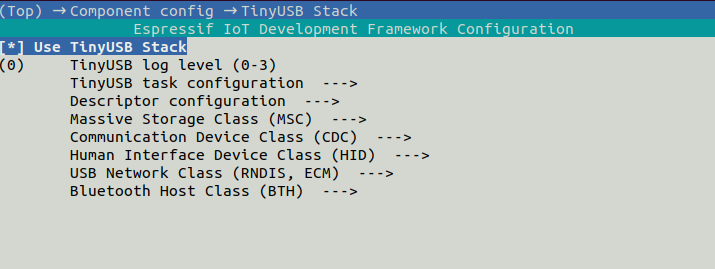
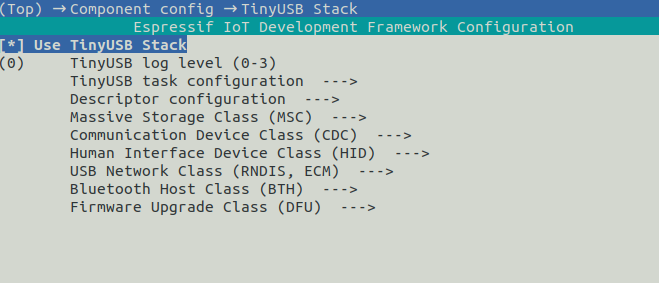
docs(USB): add USB DFU and ECM usage

diff --git a/examples/usb/device/usb_dongle/README_EN.md b/examples/usb/device/usb_dongle/README_EN.md
@@ -6,9 +6,10 @@ This example shows how to set up ESP32-S chip to work as a USB Dongle Device.
 
 Supports the following functions:
 
-* Support Host to surf the Internet wirelessly via USB-RNDIS.
+* Support Host to surf the Internet wirelessly via USB-ECM/RNDIS.
 * Add BLE devices via USB-BTH, support scan, broadcast, connect and other functions.
 * Support Host to communicate and control ESP32-S series devices via USB-CDC or UART.
+* Support Host to upgrade device using USB-DFU.
 * Support system commands and Wi-Fi control commands. It uses FreeRTOS-Plus-CLI interfaces, so it is easy to add more commands.
 * Support hot swap.
 
@@ -93,19 +94,20 @@ Refer to `soc/usb_pins.h` to find the real GPIO number of **USBPHY_DP_NUM** and 
 
 Currently USB-Dongle supports the following four combination options.
 
-| RNDIS | BTH  | CDC  | UART |
-| :---: | :--: | :--: | :--: |
-|   √   |      |      |  √   |
-|   √   |      |  √   |      |
-|   √   |  √   |      |  √   |
-|       |  √   |      |  √   |
+| ECM/RNDIS | BTH  | CDC  | UART | DFU  |
+| :-------: | :--: | :--: | :--: | :--: |
+|     √     |      |      |  √   |  √   |
+|     √     |      |  √   |      |  √   |
+|     √     |  √   |      |  √   |  √   |
+|           |  √   |      |  √   |  √   |
 
 * UART is disabled by default when CDC is enabled.
-* The project enables RNDIS and CDC by default.
+* UART can be used for command communication, and you can also use Bluetooth for communication.
+* The project enables ECM and CDC by default.
 * You can select USB Device through `component config -> TinyUSB Stack`.
-* When RNDIS and BTH are enabled at the same time, it is recommended to disable CDC, use UART to send commands, and configure the serial port through `Example Configuration`.
+* When ECM/RNDIS and BTH are enabled at the same time, it is recommended to disable CDC, use UART to send commands, and configure the serial port through `Example Configuration`.
 
->Due to current hardware limitations, the number of EndPoints cannot exceed a certain number, so RNDIS, BTH, and CDC should not be all enabled at the same time.
+>Due to current hardware limitations, the number of EndPoints cannot exceed a certain number, so ECM/RNDIS, BTH, and CDC should not be all enabled at the same time.
 
 ### 2.5 build & flash & monitor
 
@@ -161,6 +163,33 @@ You can use the following command to build and flash the firmware.
     * [Connect to target AP by sta command](./Commands_EN.md#3sta)
     * [Connect to target AP by startsmart command (SmartConfig)](./Commands_EN.md#5smartconfig)
 
+### 2.7 Common network device Problems
+
+#### Windows
+
+Windows platform only supports RNDIS, USB ECM is not recognized.
+
+#### MAC
+
+MAC platform only supports ECM, USB RNDIS is not recognized.
+
+#### Linux
+
+Linux platform support both ECM and RNDIS. Howerver, if  RNDIS is used, network devices in Linux do not proactively obtain IP addresses when switching between different routers.
+
+If embedded Linux is used and network devices are not displayed, the preceding two modules may not be enabled in the kernel. The following two configuration items are enabled in the Linux kernel to support CDC-ECM and RNDIS respectively.
+
+```
+Device Drivers   --->
+	Network Device Support --->
+		Usb Network Adapters --->
+			Multi-purpose USB Networking Framework --->
+				CDC Ethernet Support
+				Host For RDNIS and ActiveSync Devices
+```
+
+If you are sure that the network device cannot be seen after the preceding modules are enabled, run the `dmesg` command to view the kernel information to check whether ESP32-S USB network devices are detected in the Linux kernel and whether error messages are displayed.
+
 ## 3. Connect to a Wi-Fi AP
 
 The example provides two methods to connect ESP device to a Wi-Fi AP.
@@ -177,30 +206,6 @@ sta -s <ssid> -p [<password>]
 
 * `password` is optional
 
-* When the USB Dongle network is switched, the network device needs to be reloaded
-
-    >find USB Ethernet name
-    >
-    >```
-    >>ifconfig
-    >>
-    >```
-    >
-    >unload USB Ethernet 
-    >
-    >```
-    >>ifconfig <USB Ethernet name> down
-    >>
-    >```
-    >
-    >reload USB Ethernet 
-    >
-    >```
-    >>ifconfig <USB Ethernet name> up
-    >>
-    >```
-    >
-    >* `USB Ethernet name` is the name of the queried network device
 
 ### [Method 2. Connect to target AP by startsmart command (SmartConfig)](./Commands_EN.md#5smartconfig)
 
@@ -220,35 +225,58 @@ Download ESPTOUCH APP from app store: [Android source code](https://github.com/E
 smartconfig 1
 ```
 
-**Notes**
-
-* When the USB Dongle network is switched, the network device needs to be reloaded
-
-    >find USB Ethernet name
-    >
-    >```
-    >>ifconfig
-    >>
-    >```
-    >
-    >unload USB Ethernet 
-    >
-    >```
-    >>ifconfig <USB Ethernet name> down
-    >>
-    >```
-    >
-    >reload USB Ethernet 
-    >
-    >```
-    >>ifconfig <USB Ethernet name> up
-    >>
-    >```
-    >
-    >* `USB Ethernet name` is the name of the queried network device
-
 ## 4.Command introduction
 
 [Commands](./Commands_EN.md)
 
 Note: Wi-Fi commands can only be used when USB Network Class is enabled
+
+## 5. How to use USB-DFU to upgrade device
+
+Before using DFU to upgrade ES[32-S device, ensure that the DFU feature has been enabled in the configuration item.
+
+```
+component config → TinyUSB Stack→ Use TinyUSB Stack → Firmware Upgrade Class (DFU) → Enable TinyUSB DFU feature
+```
+
+#### Ubuntu 
+
+You need to install the DFU tool first in Ubuntu.
+
+```
+sudo apt install dfu-util
+```
+
+Run the following command to upgrade.
+
+```
+sudo dfu-util -d <VendorID> -a 0 -D <OTA_BIN_PATH>
+```
+
+**Notes**
+
+- VendorID is USB vendor ID, the default value 0x303A
+- OTA_BIN_PATH is the upgrade firmware
+
+#### Windows
+
+1. On Windows you need to download [dfu-util](http://dfu-util.sourceforge.net/releases/dfu-util-0.9-win64.zip) first.
+
+2. `dfu-util` uses libusb to access the device. You have to register on Windows the device with the WinUSB driver. Installation using [Zadig](http://zadig.akeo.ie/) tool is recommended.
+
+3. Open the command window, run the following commands using `dfu-util.exe`.
+
+   ```
+   dfu-util.exe -d <VendorID> -a 0 -D <OTA_BIN_PATH>
+   ```
+
+   **Notes**
+
+   - VendorID is USB vendor ID, the default value 0x303A
+   - OTA_BIN_PATH is the upgrade firmware
+
+#### Common problems
+
+1. Please refer to [this link](https://support.particle.io/hc/en-us/articles/360039251394-Installing-DFU-util) for the installation error of `dfu-util` tool on each platform.
+2. "No DFU capable USB device available" means `dfu-util` does not detect the DFU device of the ESP32-S chip. Ensure that the DFU feature is enabled in the configuration item.
+   In Linux platform, make sure you are using administrator rights.

diff --git a/examples/usb/device/usb_dongle/README.md b/examples/usb/device/usb_dongle/README.md
@@ -4,8 +4,9 @@
 
 本示例程序演示 ESP32-S 系列芯片如何实现 USB Dongle 设备功能，支持以下功能：
 
-* 支持 Host 主机通过 USB-RNDIS 无线上网
+* 支持 Host 主机通过 USB-ECM/RNDIS 无线上网
 * 支持 Host 主机通过 USB-BTH 进行 BLE 扫描、广播、配对、连接、绑定以及读写数据
+* 支持 Host 主机通过 USB-DFU 进行设备升级
 * 支持 Host 主机通过 USB-CDC、UART 对 ESP32-S 系列设备进行通信和控制
 * 支持多种 system、Wi-Fi 控制命令，使用 FreeRTOS-Plus-CLI 命令行接口，易拓展更多命令
 * 支持热插拔
@@ -86,19 +87,20 @@ ESP BOARD          USB CONNECTOR (type A)
 
 目前 USB-Dongle 支持以下四种组合选项：
 
-| USB-RNDIS | USB-BTH | USB-CDC | UART |
-| :-------: | :-----: | :-----: | :--: |
-|     √     |         |         |  √   |
-|     √     |         |    √    |      |
-|     √     |    √    |         |  √   |
-|           |    √    |         |  √   |
+| USB-ECM/RNDIS | USB-BTH | USB-CDC | UART | USB-DFU |
+| :-----------: | :-----: | :-----: | :--: | :-----: |
+|       √       |         |         |  √   |    √    |
+|       √       |         |    √    |      |    √    |
+|       √       |    √    |         |  √   |    √    |
+|               |    √    |         |  √   |    √    |
 
-* 本软件默认使能 RNDIS、CDC。
+* 本软件默认使能 ECM、CDC。
 * UART 默认在 CDC 使能时禁用。
+* UART 可以用于命令通讯，与此同时，你也可以用于蓝牙通讯。
 * 可以通过 `component config -> TinyUSB Stack` 选择 USB 设备。
-* 同时使能 RNDIS 和 BTH 时，建议禁用 CDC，采用 UART 发送命令，可以通过 `Example Configuration` 进行串口配置。
+* 同时使能 RNDIS/ECM 和 BTH 时，建议禁用 CDC，采用 UART 发送命令，可以通过 `Example Configuration` 进行串口配置。
 
->由于目前硬件限制，EndPoint 不能超过一定数量，故不支持 RNDIS、BTH、CDC 同时使能。
+>由于目前硬件限制，EndPoint 不能超过一定数量，故不支持 ECM/RNDIS、BTH、CDC 同时使能。
 
 ### 2.5 固件编译&烧录
 
@@ -150,10 +152,37 @@ ESP BOARD          USB CONNECTOR (type A)
 
     >与 ESP 设备进行通信时命令末尾需加上 LF（\n）
 
-4. 若使能 USB-RNDIS，则可通过指令来控制 ESP 设备进行配网操作
+4. 若使能 USB-ECM/RNDIS，则可通过指令来控制 ESP 设备进行配网操作
 
 * [通过 sta 命令来连接至对应路由器](./Commands.md#3sta)
 * [通过 startsmart 命令开启 smartconfig 配网](./Commands.md#5smartconfig)
+
+### 2.7 网络设备常见问题
+
+- #### Windows
+
+Windows 平台只支持 RNDIS， USB ECM 无法识别
+
+- #### MAC
+
+MAC 平台只支持 ECM，USB RNDIS 无法识别
+
+- #### Linux
+
+Linux 平台同时支持 ECM 和 RNDIS，不过使用 RNDIS 时，如果切换不同的路由器，Linux 下的网络设备并不会主动重新获取 IP。
+
+如果使用嵌入式 Linux， 没有显示网络设备，可能是在内核中没有使能上述两个模块，在 Linux 内核中使能如下两个配置项，分别用于支持 CDC-ECM 和 RNDIS。
+
+```
+Device Drivers   --->
+	Network Device Support --->
+		Usb Network Adapters --->
+			Multi-purpose USB Networking Framework --->
+				CDC Ethernet Support
+				Host For RDNIS and ActiveSync Devices
+```
+
+如果确定使能上述模块依然无法看到网络设备，请通过 `dmesg` 命令查看内核信息， 确定 Linux 内核中是否有探测到 ESP32-S USB 网络设备，以及是否有错误打印信息。
 
 ## 3. 配置连接 Wi-Fi 网络
 
@@ -170,31 +199,6 @@ sta -s <ssid> -p [<password>]
 **说明**
 
 * `password` 为选填参数。
-
-* 当设备已经连接到一个路由器，但您需要切换连接到其他路由器时，则需要重新加载网卡设备，在执行配网命令后执行以下操作：
-
-    >查询 USB Ethernet name
-    >
-    >```
-    >>ifconfig
-    >>
-    >```
-    >
-    >卸载 USB 网卡
-    >
-    >```
-    >>ifconfig <USB Ethernet name> down
-    >>
-    >```
-    >
-    >装载 USB 网卡 
-    >
-    >```
-    >>ifconfig <USB Ethernet name> up
-    >>
-    >```
-    >
-    >* `USB Ethernet name` 为查询出来的网卡名称
 
 ### [方法 2. 通过 smartconfig 连接至 Wi-Fi 路由器](./Commands.md#5smartconfig)
 
@@ -214,35 +218,57 @@ sta -s <ssid> -p [<password>]
 smartconfig 1
 ```
 
-**说明**
-
-* 当设备已经连接到一个路由器，但您需要切换连接到其他路由器时，则需要重新加载网卡设备，在执行配网命令后执行以下操作：
-
-    >查询 USB Ethernet name
-    >
-    >```
-    >>ifconfig
-    >>
-    >```
-    >
-    >卸载 USB 网卡
-    >
-    >```
-    >>ifconfig <USB Ethernet name> down
-    >>
-    >```
-    >
-    >装载 USB 网卡 
-    >
-    >```
-    >>ifconfig <USB Ethernet name> up
-    >>
-    >```
-    >
-    >* `USB Ethernet name` 为查询出来的网卡名称
-
 ## 4. 命令说明
 
 [Command](./Commands.md)
 
 注意：Wi-Fi 相关命令只有在 USB Network Class 使能时才可以使用. 
+
+## 5. 如何使用 USB-DFU 对设备升级
+
+在使用  DFU 对设备升级之前，请确保已经在配置项中使能了  DFU 功能
+
+```
+component config → TinyUSB Stack→ Use TinyUSB Stack → Firmware Upgrade Class (DFU) → Enable TinyUSB DFU feature
+```
+
+#### Ubuntu
+
+在 Ubuntu 环境下首先需要安装 DFU 工具
+
+```
+sudo apt install dfu-util
+```
+
+使用如下命令进行升级操作
+
+```
+sudo dfu-util -d <VendorID> -a 0 -D <OTA_BIN_PATH>
+```
+
+其中：
+
+1. VendorID 为 USB vendor ID, 缺省为 0x303A
+2. OTA_BIN_PATH 为需要升级的固件
+
+#### Windows
+
+1. 在 Windows 平台首先需要下载 [dfu-util](http://dfu-util.sourceforge.net/releases/dfu-util-0.9-win64.zip)。
+
+2. dfu-util 使用 libusb 访问 USB 设备，这要求我们需要在 Windows 上安装 WinUSB 驱动，可以使用 [Zadig 工具](http://zadig.akeo.ie/) 安装。
+
+3. 打开命令行窗口， 将 dfu-util.exe 拖进去，然后执行如下命令进行升级操作
+
+   ```
+   dfu-util.exe -d <VendorID> -a 0 -D <OTA_BIN_PATH>
+   ```
+
+   其中：
+
+   1. VendorID 为 USB vendor ID, 缺省为 0x303A
+   2. OTA_BIN_PATH 为需要升级的固件
+
+#### 常见问题和错误
+
+1.  各平台 dfu-util 工具安装错误的问题请参考[此链接](https://support.particle.io/hc/en-us/articles/360039251394-Installing-DFU-util) 。
+2. dfu-util 执行时打印 “No DFU capable USB device available”， 这说明 dfu-util 没有探测到 ESP32-S 芯片的 DFU 设备，请确保在配置项已经使能 DFU 功能。在 Ubuntu 中，请确保使用了管理员权限操作。
